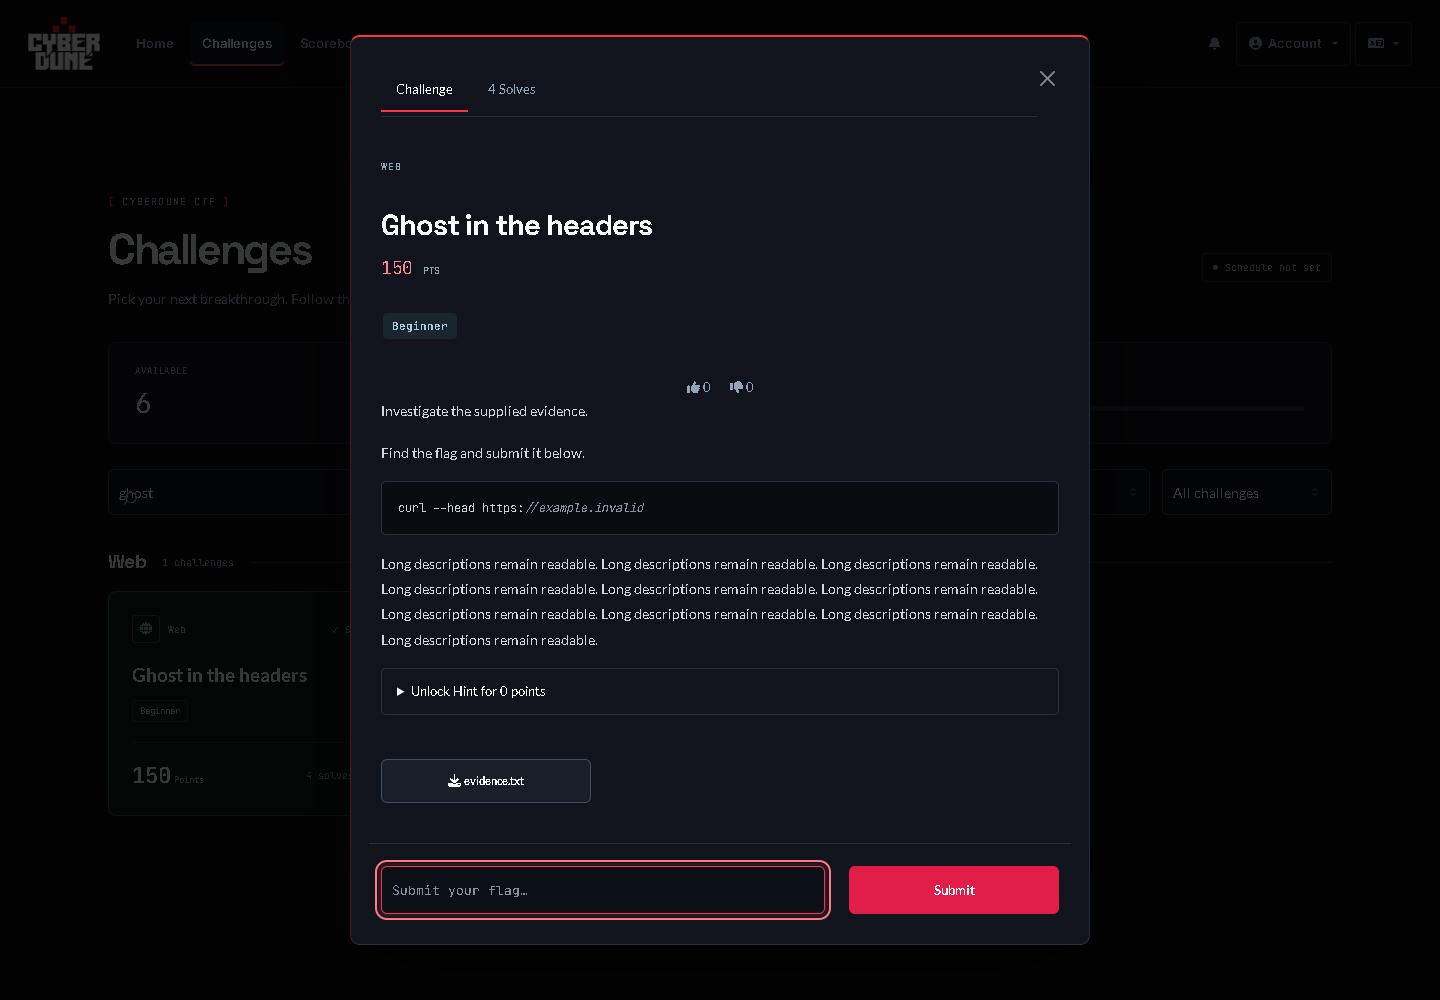
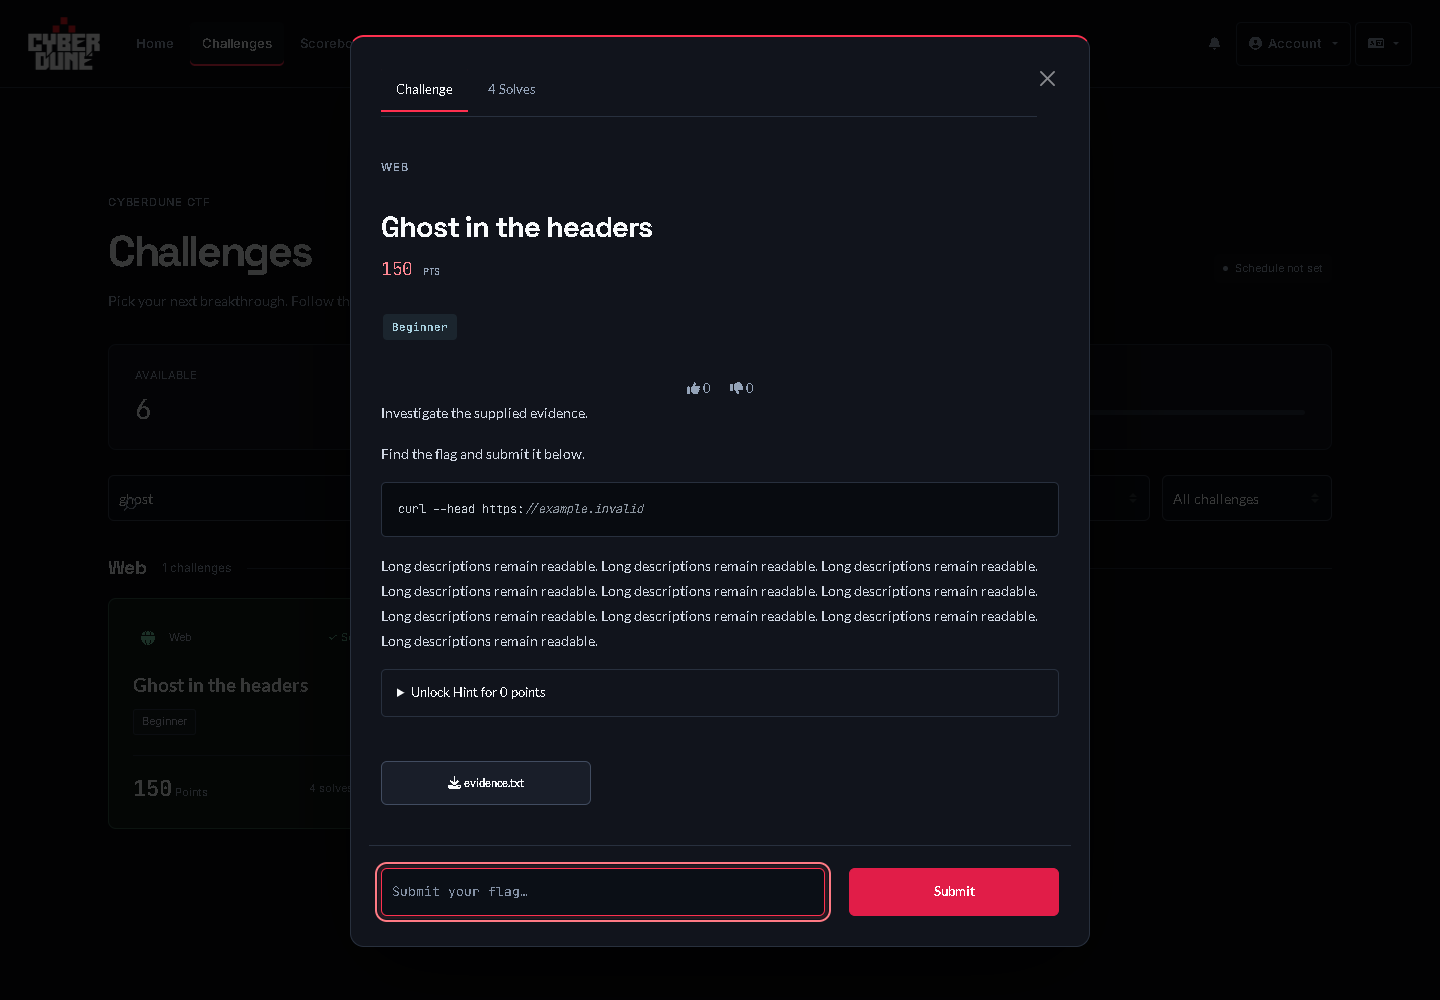
Refine CyberDune typography and simplify decorative details

diff --git a/CTFd/themes/cyberdune/static/css/operations.css b/CTFd/themes/cyberdune/static/css/operations.css
@@ -1,68 +1,70 @@
-/* Visual enhancement only. Layout, CTFd state and existing palette stay authoritative. */
-.cd-hero { position: relative; isolation: isolate; }
-.cd-network { position: absolute; inset: 0; width: 100%; height: 100%; z-index: -1; pointer-events: none; overflow: hidden; }
-.cd-network .cd-trace { fill: none; stroke: var(--cd-border); stroke-width: 1; opacity: .55; }
-.cd-network .cd-signal { fill: none; stroke: var(--cd-red); stroke-width: 1.5; stroke-dasharray: 12 680; animation: cd-signal 16s linear infinite; opacity: .42; }
-.cd-network .cd-node { fill: var(--cd-bg); stroke: var(--cd-red); stroke-width: 1; opacity: .5; }
-.cd-network .cd-pulse { fill: var(--cd-red); opacity: .5; transform-box: fill-box; transform-origin: center; animation: cd-pulse 6s ease-in-out infinite; }
-.cd-network .cd-grid { stroke: var(--cd-border); stroke-width: .5; opacity: .17; }
-.cd-network text { fill: var(--cd-muted); font: 9px var(--cd-mono); opacity: .45; }
-.cd-network .cd-scan { stroke: var(--cd-red); stroke-width: 1; opacity: .12; animation: cd-scan 14s ease-in-out infinite; }
-.cd-operation-label { font: 10px/1.8 var(--cd-mono); letter-spacing: .08em; color: var(--cd-muted); margin: 0 0 18px; direction: ltr; }
-.cd-operation-label::before { content: '> '; color: var(--cd-red); }
-.cd-operation-label [data-operation-copy] { color: var(--cd-text); }
-.cd-operation-label .cd-cursor { display: inline-block; width: 5px; height: 11px; background: var(--cd-red); vertical-align: -1px; margin-inline-start: 5px; animation: cd-cursor 1.5s steps(1) 4; }
-.cd-motion-tools { display: flex; align-items: center; justify-content: space-between; gap: 12px; margin-top: 18px; }
-.cd-motion-tools small { font: 9px var(--cd-mono); color: var(--cd-muted); }
-.cd-motion-toggle { color: var(--cd-muted); border: 1px solid var(--cd-border); background: transparent; border-radius: 4px; padding: 8px 10px; font: 10px var(--cd-mono); min-height: 44px; }
-.cd-motion-toggle:hover { color: var(--cd-text); border-color: var(--cd-red); }
-.cd-motion-toggle[hidden] { display: none !important; }
-.cd-briefing, .cd-challenge-card, .cd-home-category, .cd-auth-card, .cd-podium-card, .cd-profile-metrics h2 { position: relative; }
-.cd-briefing::before, .cd-auth-card::before { content: ''; position: absolute; pointer-events: none; inset: 7px; border: solid var(--cd-red); border-width: 1px 0 0 1px; width: 13px; height: 13px; opacity: .55; }
-.cd-briefing::after, .cd-auth-card::after { content: ''; position: absolute; pointer-events: none; inset-inline-end: 7px; bottom: 7px; border: solid var(--cd-red); border-width: 0 1px 1px 0; width: 13px; height: 13px; opacity: .55; }
-.cd-challenge-card, .cd-home-category { background-image: linear-gradient(135deg, transparent 75%, #ff304f04); transition: border-color .2s, transform .2s, background-color .2s; }
-.cd-challenge-card::before, .cd-home-category::before { content: ''; position: absolute; inset-inline-end: 8px; top: 8px; width: 10px; height: 10px; border-top: 1px solid var(--cd-muted); border-inline-end: 1px solid var(--cd-muted); opacity: .4; pointer-events: none; }
-.cd-challenge-card:hover::before, .cd-home-category:hover::before { border-color: var(--cd-red); opacity: 1; }
-.cd-challenge-card:hover, .cd-home-category:hover { transform: translateY(-3px); border-color: var(--cd-red); }
-.cd-category-symbol { display: inline-flex; align-items: center; justify-content: center; width: 28px; height: 28px; margin-inline-end: 8px; border: 1px solid var(--cd-border); border-radius: 4px; color: var(--cd-red); font-size: 12px; flex-shrink: 0; }
-.cd-card-category { display: inline-flex; align-items: center; }
-.cd-home-category strong { display: flex; align-items: center; }
-.challenge-solved .cd-category-symbol { color: var(--cd-green); border-color: #365b4b; }
-.challenge-solved::before { border-color: var(--cd-green); }
-.cd-podium-card::after { content: ''; display: block; position: absolute; bottom: 0; inset-inline: 20px; height: 2px; background: var(--cd-border); }
-.cd-podium-card:first-of-type { border-top: 2px solid var(--cd-red); }
-.cd-podium-card:first-of-type::after { background: var(--cd-red); }
-.cd-podium-card>span { color: var(--cd-text); }
-.cd-score-table tbody tr { transition: background-color .25s; }
-.cd-data-changed { animation: cd-data-change .7s ease-out; }
+/* CyberDune refinement: restrained brand accents, readable surfaces and useful feedback. */
+.cd-hero { padding-block: 88px 72px; gap: 72px; }
+.cd-brand-title { font-size: clamp(44px, 5.1vw, 72px); letter-spacing: -.045em; line-height: 1.08; }
+.cd-hero-description { line-height: 1.75; max-width: 490px; }
+.cd-eyebrow { font-family: Inter, system-ui, sans-serif; font-size: 11px; font-weight: 600; letter-spacing: .07em; }
+.cd-hero .cd-eyebrow { max-width: 440px; margin-bottom: 24px; }
+.cd-briefing { border-radius: 14px; border-color: #303745; box-shadow: 0 16px 40px #00000018; }
+.cd-briefing-head { padding: 24px; align-items: start; flex-wrap: wrap; }
+.cd-briefing-head h2 { font-size: 20px; }
+.cd-status { font: 11px/1.5 Inter, system-ui, sans-serif; border: 0; background: #ffffff04; padding: 6px 9px; border-radius: 6px; }
+.cd-briefing dt { font: 500 11px/1.5 Inter, system-ui, sans-serif; letter-spacing: .04em; }
+.cd-briefing dd { font-size: 13px; }
+.cd-briefing dl>div { padding-block: 20px; }
+.cd-briefing dl>div:last-child { border-bottom: 0; }
+.cd-briefing-foot { padding: 18px 24px; border-top: 1px solid var(--cd-border); font-size: 13px; }
+.cd-home-metrics { margin-bottom: 48px; padding-block: 28px; }
+.cd-home-metrics strong { font: 600 30px/1.3 "Space Grotesk", Inter, sans-serif; font-variant-numeric: tabular-nums; }
+.cd-home-metrics span { font: 12px/1.5 Inter, system-ui, sans-serif; }
+.cd-home-category { min-height: 144px; gap: 20px; padding: 26px; border-radius: 12px; transition: background-color .18s, border-color .18s; }
+.cd-home-category:hover { border-color: #596171; background: var(--cd-raised); }
+.cd-home-category strong { display: flex; align-items: center; gap: 12px; font-size: 20px; }
+.cd-home-category>span { font: 12px/1.5 Inter, system-ui, sans-serif; }
+.cd-category-symbol { display: inline-flex; align-items: center; justify-content: center; width: 30px; height: 30px; color: var(--cd-red); font-size: 14px; flex-shrink: 0; }
+.cd-card-category { display: inline-flex; align-items: center; gap: 6px; font: 11px/1.5 Inter, system-ui, sans-serif; }
+.cd-challenge-card { padding: 24px; border-radius: 12px; transition: background-color .18s, border-color .18s; }
+.cd-challenge-card:hover { transform: none; border-color: #667184; background: var(--cd-raised); }
+.cd-card-state { font: 11px/1.5 Inter, system-ui, sans-serif; letter-spacing: 0; }
+.cd-card-tags>span { font: 11px/1.4 Inter, system-ui, sans-serif; padding: 4px 8px; }
+.cd-card-solves, .cd-card-bottom small { font: 11px/1.5 Inter, system-ui, sans-serif; }
+.challenge-solved .cd-category-symbol { color: var(--cd-green); }
+.cd-category-title span { font: 12px/1.5 Inter, system-ui, sans-serif; }
+.cd-board-summary span { font: 11px/1.5 Inter, system-ui, sans-serif; letter-spacing: .03em; }
+.cd-podium-card { border-radius: 12px; }
+.cd-podium-card:first-of-type { border-color: #63313f; background: #17131c; }
+.cd-podium-card>span, .cd-podium-card small { font: 12px/1.5 Inter, system-ui, sans-serif; }
+.cd-standing-me { box-shadow: inset 3px 0 var(--cd-red); }
 .cd-standing-me td a { color: #ff8792; }
-.cd-page-head .cd-eyebrow::before { content: '[ '; color: var(--cd-red); }
-.cd-page-head .cd-eyebrow::after { content: ' ]'; color: var(--cd-red); }
-.cd-auth-mark { border-inline-start: 2px solid var(--cd-red); padding-inline-start: 12px; }
-.cd-auth-card .form-control:focus, .challenge-input:focus { box-shadow: 0 0 0 3px #ff304f18; border-color: var(--cd-red); }
-.cd-empty { background-image: linear-gradient(90deg, #28303e10 1px, transparent 1px), linear-gradient(#28303e10 1px, transparent 1px); background-size: 32px 32px; }
-.cd-profile-metrics h2 { border-inline-start: 2px solid var(--cd-red); }
-.modal-content { border-inline-start: 1px solid #ff304f40; }
-.cd-nav { border-bottom: 1px solid #ff304f30; }
-.cd-hero-copy, .cd-briefing { animation: cd-enter .45s ease-out both; }
-.cd-briefing { animation-delay: .08s; }
-@keyframes cd-enter { from { opacity: .5; transform: translateY(6px); } to { opacity: 1; transform: translateY(0); } }
-@keyframes cd-signal { to { stroke-dashoffset: -1384; } }
-@keyframes cd-pulse { 0%, 100% { opacity: .2; transform: scale(.7); } 50% { opacity: .65; transform: scale(1.2); } }
-@keyframes cd-scan { 0%, 100% { transform: translateY(0); opacity: 0; } 20% { opacity: .12; } 80% { transform: translateY(440px); opacity: .12; } }
-@keyframes cd-cursor { 50% { opacity: 0; } }
-@keyframes cd-data-change { from { background-color: #ff304f24; } to { background-color: transparent; } }
-html[data-cd-motion=paused] .cd-app *, html[data-cd-motion=paused] .cd-app *::before, html[data-cd-motion=paused] .cd-app *::after { animation-play-state: paused !important; }
-/* Pausing during entry must never leave useful content faded or displaced. */
-html[data-cd-motion=paused] .cd-hero-copy, html[data-cd-motion=paused] .cd-briefing { animation: none; opacity: 1; transform: none; }
+.cd-data-changed { animation: cd-data-change .7s ease-out; }
+.cd-auth-card { padding: 36px; border-radius: 14px; }
+.cd-auth-mark { font: 600 11px/1.5 Inter, system-ui, sans-serif; letter-spacing: .06em; }
+.cd-empty { border-style: solid; background: #ffffff02; border-radius: 12px; }
+.cd-guide-grid article { background: transparent; border-radius: 12px; }
+.cd-guide-grid h3 { font-size: 21px; }
+.cd-guide-grid p { font-size: 14px; line-height: 1.75; }
+.cd-guide-grid .cd-step { font-size: 12px; }
+.cd-home-standings { margin-block: 48px; }
+.cd-app main { padding-bottom: 64px; }
+.cd-comms-links small { font: 500 11px/1.4 Inter, system-ui, sans-serif; letter-spacing: .04em; color: var(--cd-muted); }
+.cd-comms-links strong { font-size: 13px; }
+.cd-footer small, .cd-footer-links a { font: 12px/1.6 Inter, system-ui, sans-serif; }
+.modal-content { border-radius: 14px; }
+@keyframes cd-data-change { from { background-color: #ff304f20; } to { background-color: transparent; } }
+@media (max-width: 991px) {
+  .cd-hero { gap: 32px; padding-block: 56px; }
+  .cd-brand-title { font-size: clamp(42px, 5.5vw, 64px); }
+}
 @media (max-width: 767px) {
-  .cd-network { opacity: .6; }
-  .cd-network text, .cd-network .cd-scan { display: none; }
-  .cd-operation-label { font-size: 9px; letter-spacing: .02em; }
-  .cd-motion-tools { flex-wrap: wrap; }
+  .cd-hero { padding-block: 40px; gap: 32px; }
+  .cd-brand-title { font-size: clamp(40px, 10vw, 56px); }
+  .cd-home-metrics>div { padding-inline: 12px; }
+  .cd-home-metrics span { font-size: 11px; }
+  .cd-home-category { padding: 18px; min-height: 132px; gap: 16px; }
+  .cd-home-category strong { font-size: 17px; gap: 6px; }
+  .cd-home-category>span { font-size: 11px; }
+  .cd-auth-card { padding: 24px; }
+  .cd-app main { padding-bottom: 40px; }
 }
 @media (prefers-reduced-motion: reduce) {
   .cd-app *, .cd-app *::before, .cd-app *::after { animation: none !important; transition: none !important; }
-  .cd-challenge-card:hover, .cd-home-category:hover { transform: none; }
-  .cd-cursor { display: none !important; }
 }

diff --git a/CTFd/themes/cyberdune/static/js/operations.js b/CTFd/themes/cyberdune/static/js/operations.js
@@ -1,45 +1,8 @@
-/* Bounded decorative motion. Never generates telemetry, scores or challenge state. */
+/* Finite feedback for real score and solved-state updates. No decorative runtime. */
 (() => {
   'use strict';
   document.addEventListener('DOMContentLoaded', () => {
     const reduced = matchMedia('(prefers-reduced-motion: reduce)');
-    const toggle = document.querySelector('[data-motion-toggle]');
-    const typed = document.querySelector('[data-operation-copy]');
-    let paused = false;
-    try { paused = localStorage.getItem('cyberdune-motion') === 'paused'; } catch (_) { /* Storage may be unavailable. */ }
-    let timer = null, offset = 0;
-    const phrase = typed?.dataset.operationCopy || '';
-    const stop = () => { clearTimeout(timer); timer = null; };
-    const type = () => {
-      if (!typed || paused || reduced.matches || document.hidden || offset >= phrase.length) return;
-      typed.textContent = phrase.slice(0, ++offset);
-      timer = setTimeout(type, 55);
-    };
-    const sync = () => {
-      stop();
-      document.documentElement.dataset.cdMotion = paused || reduced.matches || document.hidden ? 'paused' : 'running';
-      if (toggle) {
-        toggle.hidden = reduced.matches;
-        toggle.setAttribute('aria-pressed', String(paused));
-        toggle.textContent = paused ? toggle.dataset.resume : toggle.dataset.pause;
-      }
-      if (reduced.matches && typed) { typed.textContent = phrase; offset = phrase.length; }
-      else if (!paused && !document.hidden) type();
-    };
-    if (typed && !paused && !reduced.matches) typed.textContent = '';
-    else offset = phrase.length;
-    toggle?.addEventListener('click', () => {
-      paused = !paused;
-      try { localStorage.setItem('cyberdune-motion', paused ? 'paused' : 'running'); } catch (_) { /* Optional preference. */ }
-      // A paused terminal keeps the complete, readable label.
-      if (paused && typed) { typed.textContent = phrase; offset = phrase.length; }
-      sync();
-    });
-    reduced.addEventListener('change', sync);
-    document.addEventListener('visibilitychange', sync);
-    window.addEventListener('pagehide', stop);
-    sync();
-
     // Observe only actual score text updates and genuine solved-state changes.
     // Initial hydration is remembered without an animation. No polling or extra API calls.
     const board = document.querySelector('#scoreboard') || document.querySelector('.cd-challenge-grid')?.closest('[x-data="ChallengeBoard"]');
@@ -48,7 +11,7 @@
     const capture = () => {
       board.querySelectorAll('[data-real-score], .cd-challenge-card').forEach(node => {
         const value = node.matches('.cd-challenge-card') ? node.classList.contains('challenge-solved') : node.textContent;
-        if (known.has(node) && known.get(node) !== value && !paused && !reduced.matches && !document.hidden) {
+        if (known.has(node) && known.get(node) !== value && !reduced.matches && !document.hidden) {
           node.classList.remove('cd-data-changed');
           // Schedule a finite highlight, with cleanup at the end of the animation.
           requestAnimationFrame(() => node.classList.add('cd-data-changed'));

diff --git a/CTFd/themes/cyberdune/templates/components/landing.html b/CTFd/themes/cyberdune/templates/components/landing.html
@@ -1,14 +1,6 @@
 {% from "components/copy.html" import cd_copy with context %}
-{% set ops = {
-  'en': {'label': 'CYBERDUNE // CTF OPERATIONS', 'pause': 'Pause motion', 'resume': 'Resume motion', 'art': 'CTF LAB // EST GUELMIM'},
-  'fr': {'label': 'CYBERDUNE // OPÉRATIONS CTF', 'pause': 'Suspendre les animations', 'resume': 'Reprendre les animations', 'art': 'LAB CTF // EST GUELMIM'},
-  'ar': {'label': 'CYBERDUNE // عمليات CTF', 'pause': 'إيقاف الحركة', 'resume': 'تشغيل الحركة', 'art': 'مختبر CTF // المدرسة العليا للتكنولوجيا كلميم'}
-}.get(get_locale() | string, {'label': 'CYBERDUNE // CTF OPERATIONS', 'pause': 'Pause motion', 'resume': 'Resume motion', 'art': 'CTF LAB // EST GUELMIM'}) %}
 <section class="container cd-hero">
-  {% include 'components/network.html' %}
   <div class="cd-hero-copy">
-    <p class="cd-operation-label"><span class="visually-hidden">{{ ops.label }}</span><span aria-hidden="true"><span data-operation-copy="{{ ops.label }}">{{ ops.label }}</span><span class="cd-cursor"></span></span></p>
-    <div class="cd-club-tags"><span>EST Guelmim</span><span>CyberDune CTF</span></div>
     <p class="cd-eyebrow"><span class="cd-dot"></span> {{ cd_copy("BORN IN THE SAHARA. CONNECTED BY CURIOSITY.") }}</p>
     <h1 class="cd-brand-title">{{ cd_copy('Follow the clues.') }}<br><span>{{ cd_copy("Find your flag.") }}</span></h1>
     <p class="cd-hero-description">{{ cd_copy("A strange packet. A hidden message. One clue worth chasing. Put your cybersecurity skills to the test with CyberDune.") }}</p>
@@ -16,8 +8,6 @@
       <a class="btn btn-primary" href="{{ url_for('challenges.listing') }}">{{ cd_copy("Take the challenge") }} <span aria-hidden="true">↗</span></a>
       {% if not authed() and registration_visible() %}<a class="btn btn-outline-secondary" href="{{ url_for('auth.register') }}">{{ cd_copy("Join CyberDune") }}</a>{% else %}<a class="btn btn-outline-secondary" href="{{ url_for('views.static_html', route='/') }}#event-guide">{{ cd_copy("Your first flag starts here") }}</a>{% endif %}
     </div>
-    <div class="cd-motion-tools"><small>{{ ops.art }}</small><button type="button" class="cd-motion-toggle" data-motion-toggle data-pause="{{ ops.pause }}" data-resume="{{ ops.resume }}" aria-pressed="false">{{ ops.pause }}</button></div>
-    <div class="cd-hero-note">{{ cd_copy("EST Guelmim · Moroccan Sahara") }}</div>
   </div>
   <aside class="cd-briefing" aria-labelledby="cd-briefing-title">
     <div class="cd-briefing-head"><h2 id="cd-briefing-title">{{ cd_copy("Mission briefing") }}</h2><span class="cd-status" data-event-status>{{ cd_copy("Checking schedule") }}</span></div>

diff --git a/CTFd/themes/cyberdune/templates/base.html b/CTFd/themes/cyberdune/templates/base.html
@@ -10,8 +10,8 @@
   {% block stylesheets %}{{ Assets.css("assets/scss/main.scss", theme="core") }}{% endblock %}
   {{ Plugins.styles }}
   {{ Configs.theme_header }}
-  <link rel="stylesheet" href="{{ url_for('views.themes_beta', theme='cyberdune', path='css/cyberdune.css') }}?v=10">
-  <link rel="stylesheet" href="{{ url_for('views.themes_beta', theme='cyberdune', path='css/operations.css') }}?v=10">
+  <link rel="stylesheet" href="{{ url_for('views.themes_beta', theme='cyberdune', path='css/cyberdune.css') }}?v=11">
+  <link rel="stylesheet" href="{{ url_for('views.themes_beta', theme='cyberdune', path='css/operations.css') }}?v=11">
   <script>
     window.cyberduneCopy = {{ messages.get(get_locale() | string, messages.en) | tojson }};
     window.init = {
@@ -48,13 +48,13 @@
   <footer class="cd-footer">
     {% include 'components/contacts.html' %}
     <div class="container cd-footer-inner">
-      <div class="cd-footer-brand"><span class="cd-official-logo"><img src="{{ url_for('views.themes_beta', theme='cyberdune', path='img/cyberdune-white.png') }}?v=10" alt="CyberDune" width="11812" height="11812" loading="lazy"></span><small>{{ cd_copy("Sahara roots. Hacker mindset.") }}</small></div>
+      <div class="cd-footer-brand"><span class="cd-official-logo"><img src="{{ url_for('views.themes_beta', theme='cyberdune', path='img/cyberdune-white.png') }}?v=11" alt="CyberDune" width="11812" height="11812" loading="lazy"></span><small>{{ cd_copy("Sahara roots. Hacker mindset.") }}</small></div>
       <div class="cd-footer-links"><a href="https://cyberdune.online" target="_blank" rel="noopener">{{ cd_copy("The club \u2197") }}</a><a href="{{ url_for('views.static_html', route='/') }}#event-guide">{{ cd_copy("Event guide") }}</a><a href="https://ctfd.io" target="_blank" rel="noopener">Powered by CTFd</a></div>
     </div>
   </footer>
   {% include 'components/notifications.html' %}
-  <script src="{{ url_for('views.themes_beta', theme='cyberdune', path='js/cyberdune.js') }}?v=10"></script>
-  <script src="{{ url_for('views.themes_beta', theme='cyberdune', path='js/operations.js') }}?v=10"></script>
+  <script src="{{ url_for('views.themes_beta', theme='cyberdune', path='js/cyberdune.js') }}?v=11"></script>
+  <script src="{{ url_for('views.themes_beta', theme='cyberdune', path='js/operations.js') }}?v=11"></script>
   {% block scripts %}{{ Assets.js("assets/js/page.js", theme="core") }}{% endblock %}
   {{ Plugins.scripts }}
   {{ Configs.theme_footer }}

diff --git a/docs/THEME.md b/docs/THEME.md
@@ -84,16 +84,15 @@ Validate registration, login, settings, teams, files, hints, flag attempts, solv
 states, scores, profiles, languages, notifications and logout. See
 [validation notes](VALIDATION.md) for completed checks and live limits.
 
-## Operations visual layer
+## Professional visual refinement
 
-`static/css/operations.css` adds HUD corners, subtle card motifs, category icons,
-input focus and standings highlights to the existing theme.
-`templates/components/network.html` supplies the decorative hero SVG;
-`static/js/operations.js` manages one-pass typing, motion preferences and finite
-highlights on actual score/solve changes. The illustration is hidden from screen
-readers; the terminal label has a stable accessible equivalent.
+`static/css/operations.css` refines the existing theme with readable labels,
+consistent card spacing, restrained red accents and clean surfaces. The hero
+keeps the real event briefing and useful actions. Decorative network art, typing
+labels, HUD corners, scan lines and redundant club chips were removed.
 
-Colors and page grids remain in `cyberdune.css`. To adjust intensity, tune signal
-opacity/timing in `operations.css`; do not modify challenge state or score APIs.
-The hero pause button remembers its preference locally and reduced motion takes
-priority. Cache version 10 loads the enhancement after the original CSS.
+`static/js/operations.js` only adds finite highlights to real score/solve updates.
+No animation loop, motion preference control or extra API polling is needed.
+Reduced motion suppresses those highlights. Category icons use existing fonts.
+The authoritative palette and page grids remain in `cyberdune.css`; cache version
+11 loads the refinement after the baseline stylesheet. Auth and scoring stay CTFd.

diff --git a/README.md b/README.md
@@ -19,10 +19,10 @@ teams and standings, with English, French and Arabic copy.
 
 - Official CyberDune logo and responsive theme.
 - Google Stitch-informed competition workspace with an actual event briefing.
-- Subtle circuit/network hero, category icons and HUD accents.
-- Pauseable motion, reduced-motion support and finite score/solve highlights.
-- Subtle circuit/network hero, category icons and HUD accents.
-- Pauseable motion, reduced-motion support and finite score/solve highlights.
+- Clean club-branded hero, readable category cards and restrained red accents.
+- Reduced-motion support and finite highlights for real score/solve updates.
+- Clean club-branded hero, readable category cards and restrained red accents.
+- Reduced-motion support and finite highlights for real score/solve updates.
 - Live authorized homepage metrics, category links and standings preview.
 - Local typography, recovery page and rank-preserving scoreboard search.
 - English, French and Arabic language choices, with RTL support for Arabic.

diff --git a/docs/VALIDATION.md b/docs/VALIDATION.md
@@ -74,3 +74,11 @@ upgrades, compare upstream templates and API contracts; see [THEME.md](THEME.md)
   reviewed. Existing backend, scoring, flag validation and databases are untouched.
 - CSS and SVG assets are local; existing Font Awesome category icons require no
   new dependency. Effects have no canvas, video, filters or oversized blur layers.
+
+## Professional refinement
+
+The operations enhancement above is a historical checkpoint. The current theme
+removes its decorative network SVG, typing cursor, motion toggle, HUD corners and
+redundant labels. Card, metadata, form and footer typography is more readable;
+real score/solve change feedback remains finite and honors reduced motion.
+Current screenshots replace the preceding animated design previews.
